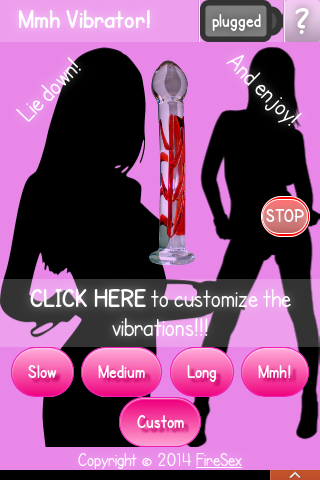
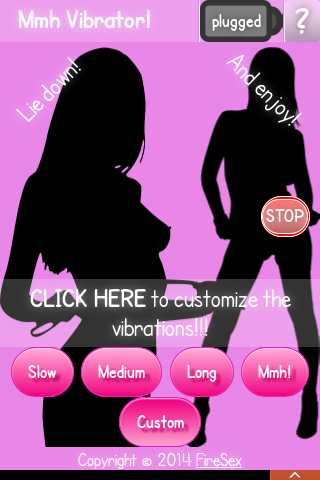
remove sextoy word + make it installable from everywhere (manifest)

Changed region(s): [[0.4688, 0.125, 0.625, 0.5625]]

diff --git a/README.md b/README.md
@@ -1,14 +1,14 @@
 Mmh Vibrator!
 =============
 
-Mmh Vibrator! is a Firefox OS open webapp that transforms your phone into a sensual sextoy.
+Mmh Vibrator! is a Firefox OS open webapp that makes your phone sensual.
 
 Mmh Vibrator! intends to give you relaxation and pleasure. You want to spice your
-life? Try how can vibrations feel? Try some new sexual experiment or just give your girlfriend a good
+life? Try how can vibrations feel? Try some new experiments or just give your girlfriend a good
 massage? This application is for you.
 
-*Warning:* this will *not* transform your phone into a real sextoy.
-It will give you much less sensations. Nevertheless, you can try this app as a beginning, and buy a sextoy
+*Warning:* this will *not* transform your phone into a real vibrator.
+It will give you much less sensations. Nevertheless, you can try this app as a beginning, and buy a vibrator
 if you like it.
 
 Mmh Vibrator! comes with:
@@ -51,13 +51,6 @@ https://commons.wikimedia.org/wiki/File:Glass_Dildo.JPG
 
 Changelog
 ---------
-
-###v1.0.1 (pending)###
-bug fixed:
-- HTML W3C compliant
-- hot translation for #description (translated even if nothing should be displayed in it)
-new feature:
-- animation of background for inputs
 
 ###v1.0###
 first release

diff --git a/src/README.md b/src/README.md
@@ -1,14 +1,14 @@
 Mmh Vibrator!
 =============
 
-Mmh Vibrator! is a Firefox OS open webapp that transforms your phone into a sensual sextoy.
+Mmh Vibrator! is a Firefox OS open webapp that makes your phone sensual.
 
 Mmh Vibrator! intends to give you relaxation and pleasure. You want to spice your
-life? Try how can vibrations feel? Try some new sexual experiment or just give your girlfriend a good
+life? Try how can vibrations feel? Try some new experiments or just give your girlfriend a good
 massage? This application is for you.
 
-*Warning:* this will *not* transform your phone into a real sextoy.
-It will give you much less sensations. Nevertheless, you can try this app as a beginning, and buy a sextoy
+*Warning:* this will *not* transform your phone into a real vibrator.
+It will give you much less sensations. Nevertheless, you can try this app as a beginning, and buy a vibrator
 if you like it.
 
 Mmh Vibrator! comes with:
@@ -51,13 +51,6 @@ https://commons.wikimedia.org/wiki/File:Glass_Dildo.JPG
 
 Changelog
 ---------
-
-###v1.0.1 (pending)###
-bug fixed:
-- HTML W3C compliant
-- hot translation for #description (translated even if nothing should be displayed in it)
-new feature:
-- animation of background for inputs
 
 ###v1.0###
 first release
